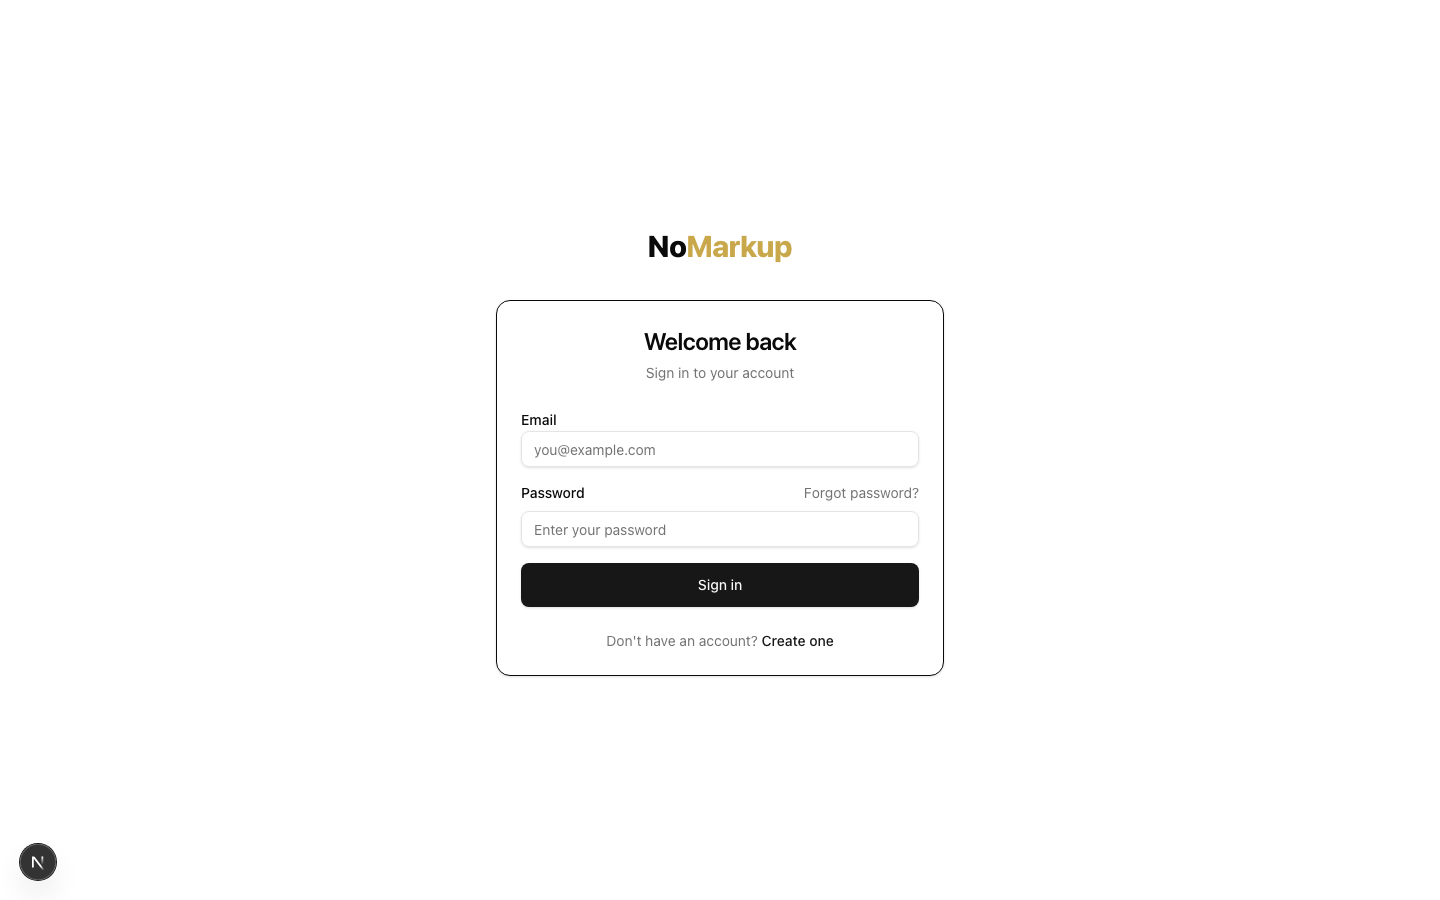
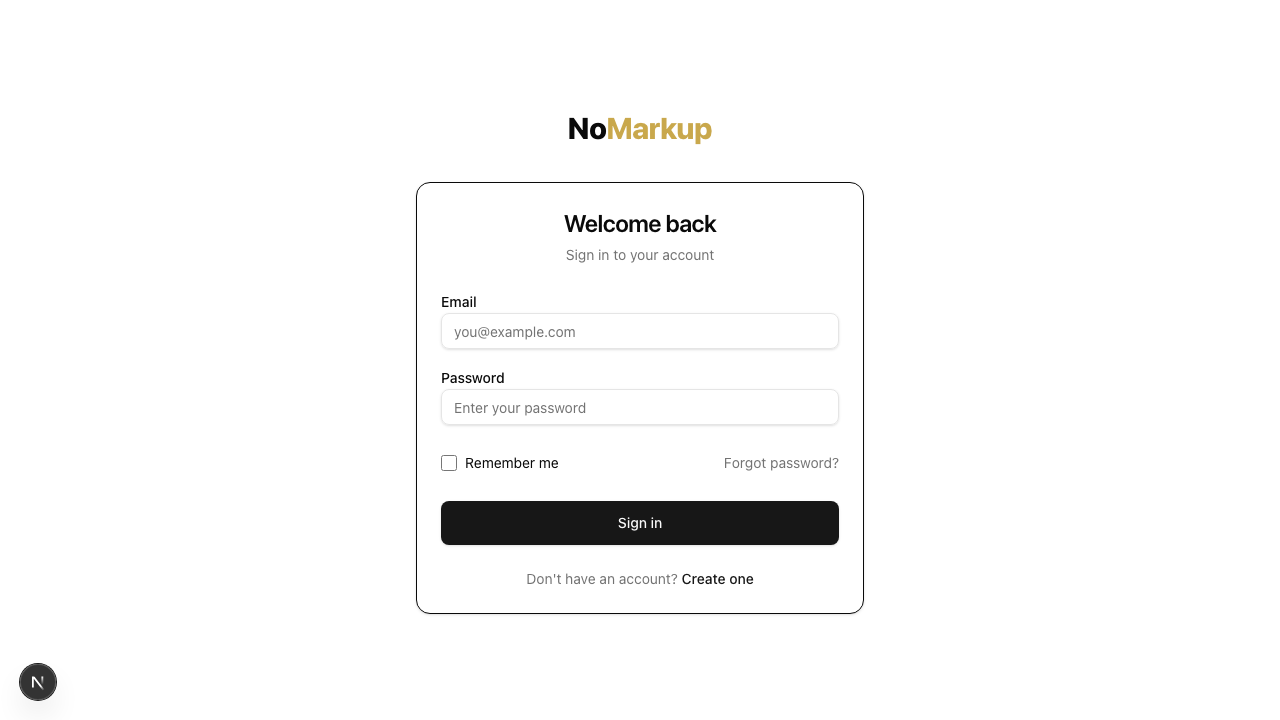
chore: update walkthrough screenshots and add team management frame
- Fresh login page screenshot (with Remember me checkbox)
- Updated 10X Live Auction Arena screenshot from live app
- New team management page screenshot (frame 58)
- WALKTHROUGH.md updated with team management section

diff --git a/WALKTHROUGH.md b/WALKTHROUGH.md
@@ -102,6 +102,11 @@ Track all bids with status tabs (All, Active, Won, Lost). Each bid card shows: b
 
 ![Provider Bids](gstack/qa-reports/screenshots/showcase-13-provider-bids.png)
 
+### Team Management
+Manage company employees and their verification status. Add team members with roles (Technician, Lead, Manager, Apprentice), track background check status, licensing, and insurance. Empty state prompts first employee creation.
+
+![Team Management](gstack/qa-reports/screenshots/showcase-27-team-management.png)
+
 ---
 
 ## Admin Panel
